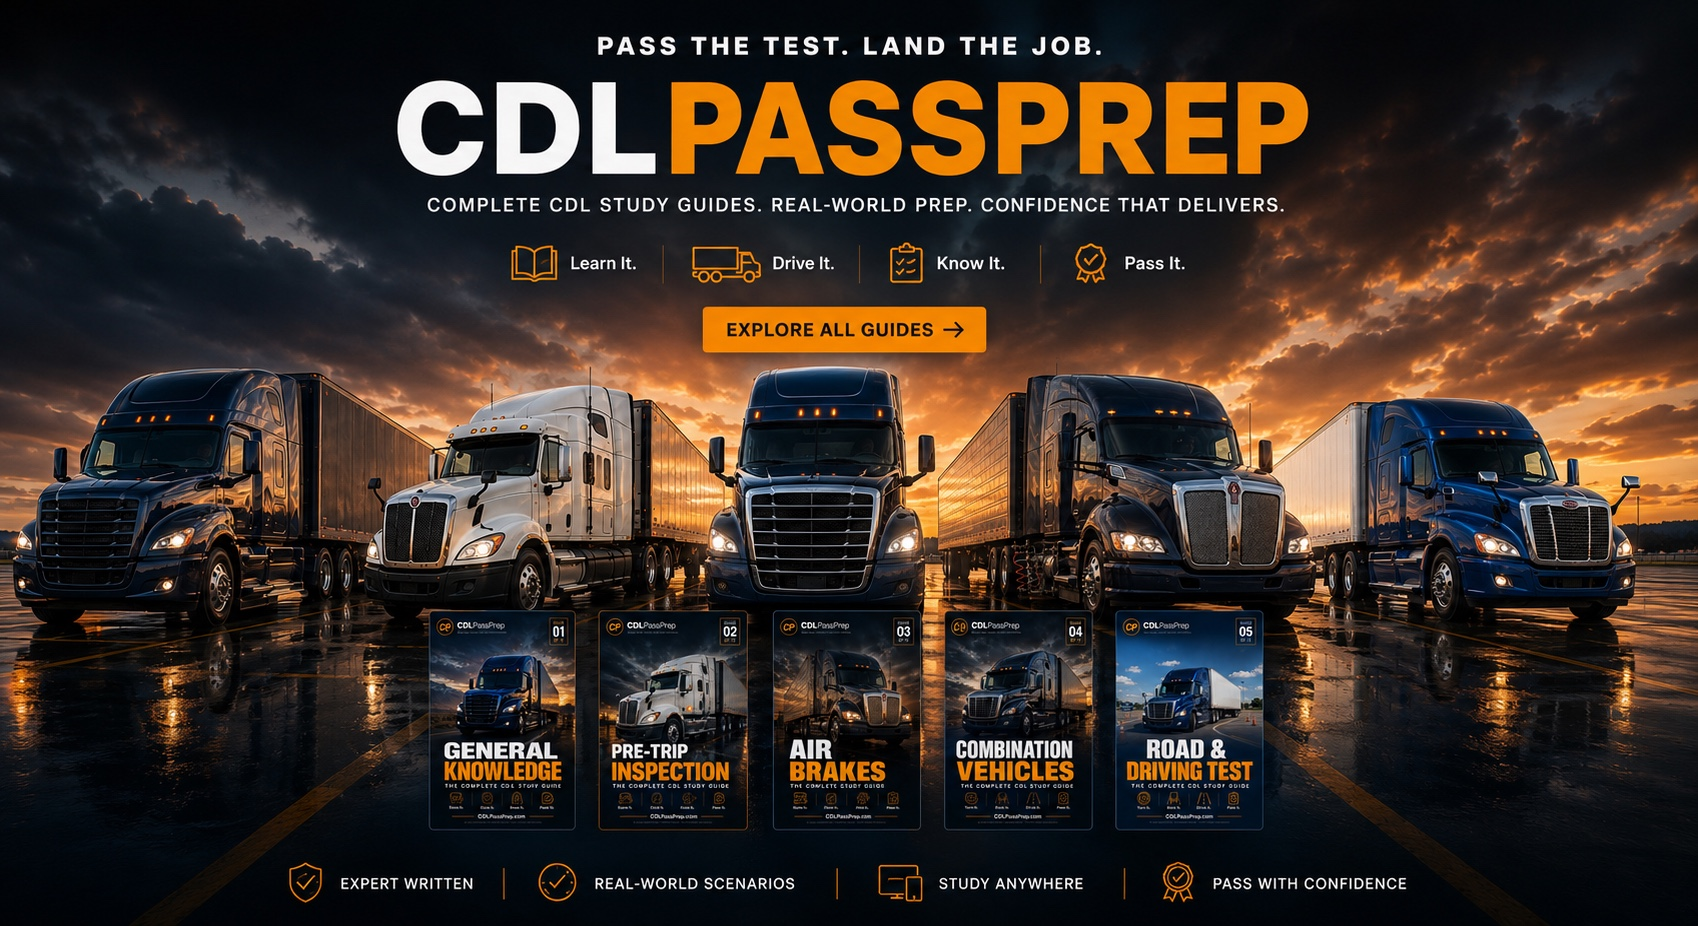
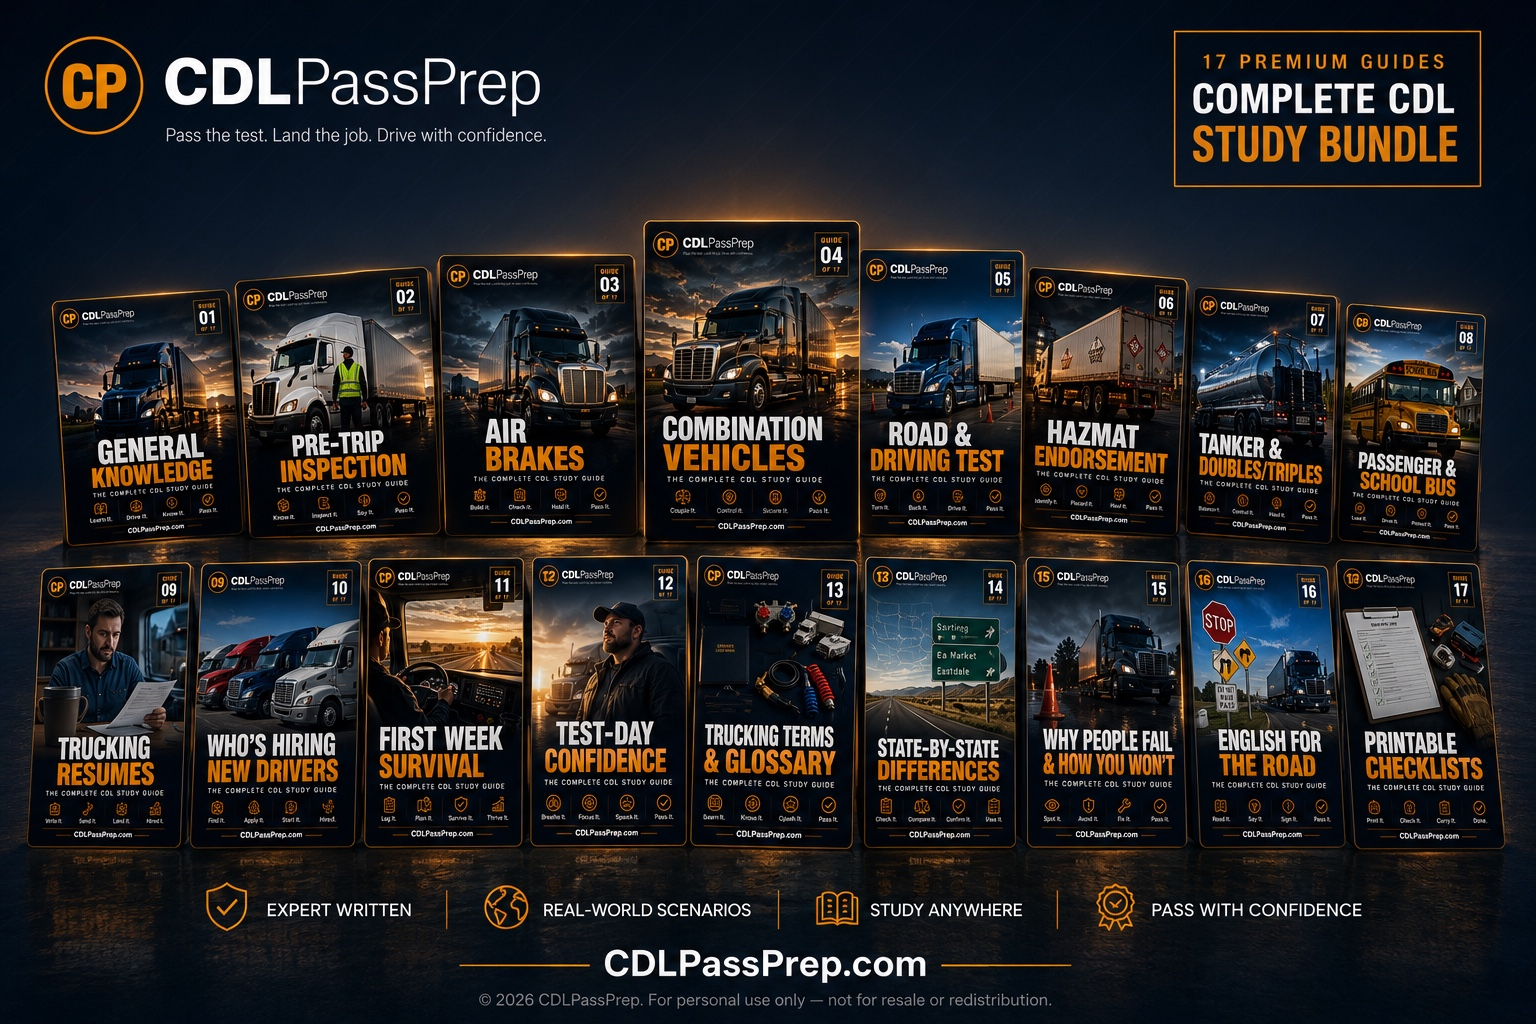
Replace hero and showcase images with final designs
Hero now uses a full-bleed background image with the headline/CTA overlaid,
darkened with a flat tint on mobile and a left-right gradient on desktop.

diff --git a/components/Hero.tsx b/components/Hero.tsx
@@ -1,20 +1,19 @@
+import Image from "next/image";
 import CTAButton from "./CTAButton";
-import GuideCover from "./GuideCover";
-
-const FAN_COVERS = [
-  { number: 1, title: "General Knowledge" },
-  { number: 3, title: "Air Brakes" },
-  { number: 6, title: "Hazmat" },
-  { number: 2, title: "Pre-Trip Inspection" },
-  { number: 5, title: "Road & Driving Test" },
-];
 
 export default function Hero() {
   return (
-    <section className="relative overflow-hidden bg-navy">
-      <div className="road-texture absolute inset-0" />
-      <div className="relative mx-auto max-w-6xl px-6 py-16 md:py-24 grid md:grid-cols-2 gap-12 items-center">
-        <div className="animate-fadeUp">
+    <section className="relative overflow-hidden bg-navy min-h-[820px] md:min-h-[760px] flex items-center">
+      <Image
+        src="/hero-bg.jpg"
+        alt=""
+        fill
+        priority
+        className="object-cover object-right-bottom"
+      />
+      <div className="absolute inset-0 bg-navy/70 md:bg-gradient-to-r md:from-navy md:via-navy/60 md:to-transparent" />
+      <div className="relative mx-auto max-w-6xl px-6 py-20 md:py-16 w-full">
+        <div className="animate-fadeUp max-w-xl">
           <span className="kicker">The Complete CDL Study System</span>
           <h1 className="mt-4 font-heading font-black text-white leading-[1.05] text-[44px] md:text-[56px]">
             Pass Your CDL Test. Land the Job. Drive With Confidence.
@@ -38,24 +37,6 @@ export default function Hero() {
               <span className="text-green">✓</span> 30-day money-back guarantee
             </li>
           </ul>
-        </div>
-
-        <div className="relative h-[380px] md:h-[440px]">
-          {FAN_COVERS.map((cover, i) => {
-            const offset = i - (FAN_COVERS.length - 1) / 2;
-            return (
-              <div
-                key={cover.number}
-                className="absolute w-[160px] md:w-[190px] left-1/2 top-1/2 transition-transform duration-300 hover:-translate-y-2"
-                style={{
-                  transform: `translate(-50%, -50%) translateX(${offset * 55}px) rotate(${offset * 7}deg)`,
-                  zIndex: 10 - Math.abs(offset),
-                }}
-              >
-                <GuideCover number={cover.number} title={cover.title} priority={offset === 0} />
-              </div>
-            );
-          })}
         </div>
       </div>
     </section>